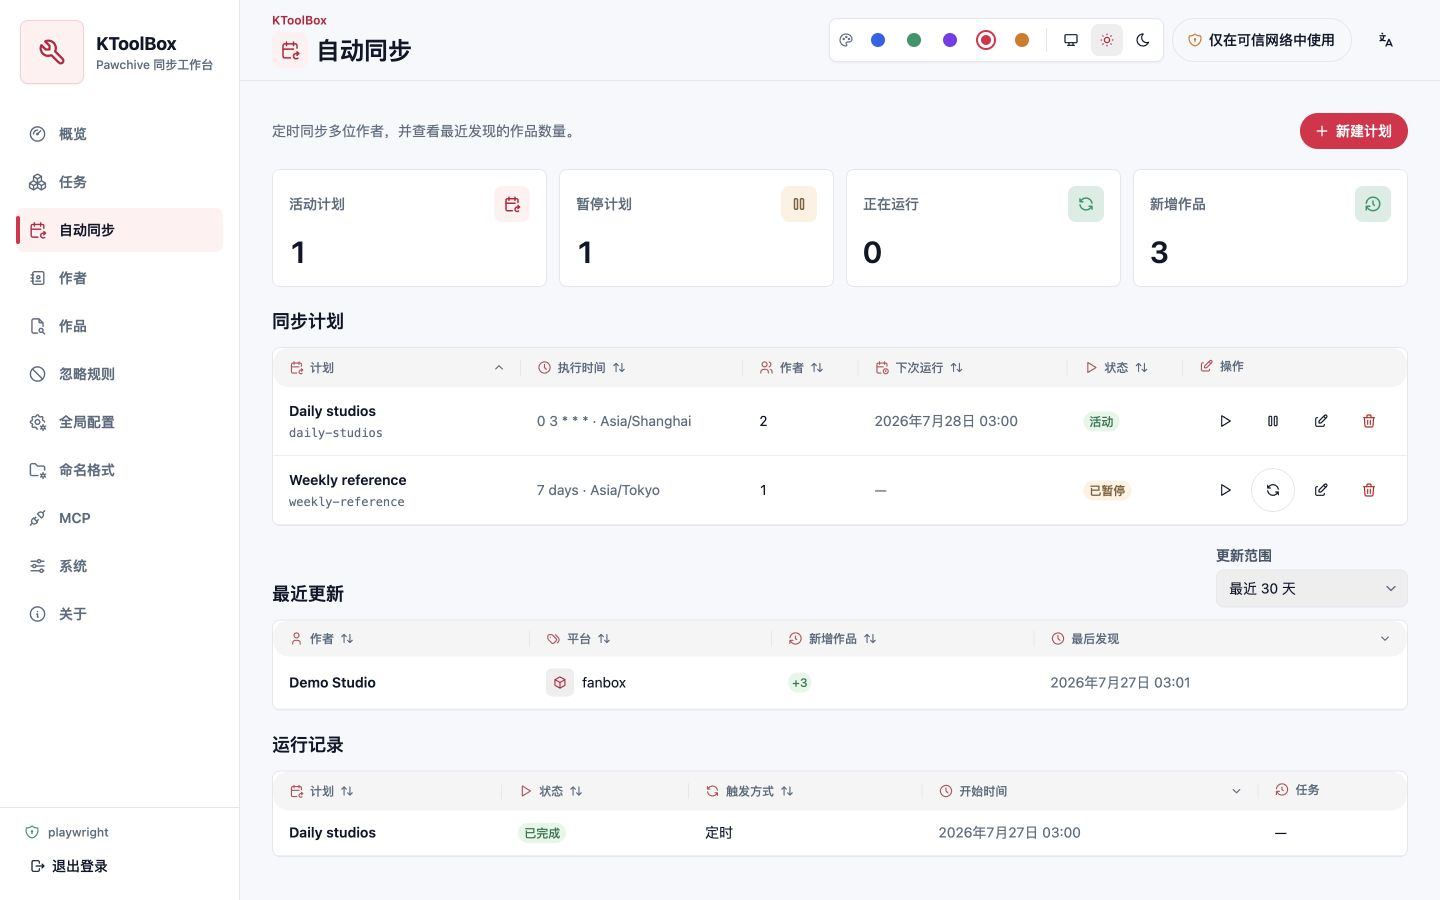
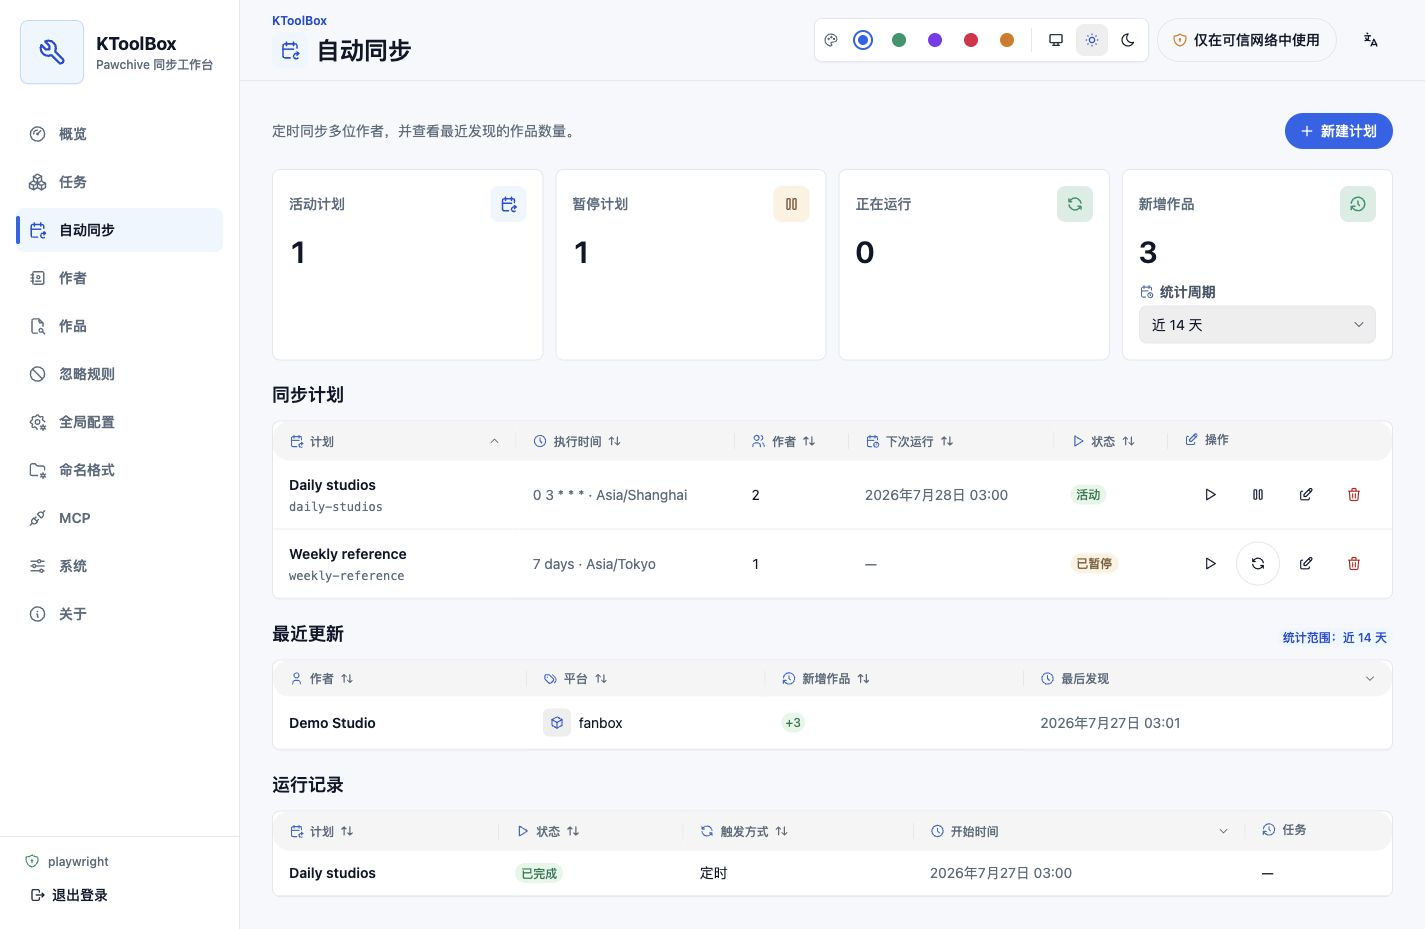
docs: explain automatic update periods

diff --git a/docs/ru/automatic-sync.md b/docs/ru/automatic-sync.md
@@ -26,6 +26,7 @@
 - Первый запуск без начальной даты создаёт базу и не считает всю историю новой.
 - Ручной запуск использует те же контрольные точки.
 - В обновлениях показываются только авторы и количество; заголовки и медиа не загружаются.
+- Карточка **Новые работы** задаёт период и для общего числа, и для списка: **Сегодня** считается от местной полуночи, а последние 24 часа, 7, 14 и 30 дней являются скользящими окнами.
 
 ## Пауза, конфликты и остановка
 

diff --git a/docs/fr/automatic-sync.md b/docs/fr/automatic-sync.md
@@ -26,6 +26,7 @@ L'heure de fin est figée au démarrage. KToolBox privilégie l'horodatage `adde
 - Une première exécution sans date établit une base sans compter tout l'historique comme nouveau.
 - Une exécution manuelle utilise les mêmes points de contrôle.
 - Les mises à jour n'affichent que les créateurs et les nombres ; aucun titre ni média n'est chargé.
+- La carte **Nouvelles œuvres** contrôle la période du total et de la liste : **Aujourd’hui** commence à minuit local, tandis que les dernières 24 heures, 7, 14 et 30 jours sont des fenêtres glissantes.
 
 ## Pause, conflits et arrêts
 

diff --git a/docs/ko/automatic-sync.md b/docs/ko/automatic-sync.md
@@ -26,6 +26,7 @@
 - 첫 실행에서 **시작일 제한 없음**을 선택하면 기준만 만들고 전체 기록을 새 작품으로 세지 않습니다.
 - 수동 실행도 같은 체크포인트를 사용합니다.
 - 최근 업데이트는 이름과 수량만 표시하며 제목이나 미디어를 불러오지 않습니다.
+- **새 작품** 카드에서 합계와 아래 목록의 집계 기간을 함께 선택합니다. **오늘**은 현지 자정부터 계산하고, 최근 24시간, 7일, 14일, 30일은 이동 시간 범위입니다.
 
 ## 일시 중지, 충돌 및 중단 시간
 

diff --git a/docs/en/automatic-sync.md b/docs/en/automatic-sync.md
@@ -26,6 +26,7 @@ Each run fixes its end time before synchronization starts. KToolBox prefers Pawc
 - A first run with **No start date** establishes a baseline and does not count all history as new.
 - **Run now** uses and advances the same checkpoints as scheduled runs.
 - Recent updates show creator names and new-work counts only; titles and media are not loaded.
+- The **New works** card controls the period for both its total and the list below: **Today** uses local midnight, while **Last 24 hours**, 7, 14, and 30 days are rolling windows.
 
 ## Pause, conflicts, and missed runs
 

diff --git a/docs/zh/automatic-sync.md b/docs/zh/automatic-sync.md
@@ -26,6 +26,7 @@ Cron 图形设置支持每小时、每天、每周和每月等常见计划；高
 - 首次选择“**不限起始日期**”时只建立基线，不把全部历史作品计为新增。
 - “**立即执行**”与定时运行使用并推进同一检查点。
 - 最近更新只显示作者和新增作品数量，不加载作品标题或媒体。
+- **新增作品**卡片同时控制统计总数和下方列表的周期：**当天**从本地零点开始计算，**近 1 天**、7 天、14 天和 30 天均为滚动时间窗口。
 
 ## 暂停、冲突与停机
 

diff --git a/docs/ja/automatic-sync.md b/docs/ja/automatic-sync.md
@@ -26,6 +26,7 @@
 - **開始日を制限しない**初回実行は基準だけを作り、全履歴を新規として数えません。
 - 手動実行も同じチェックポイントを使います。
 - 最近の更新は名前と件数だけを表示し、タイトルやメディアを読み込みません。
+- **新規作品**カードで合計と下の一覧の集計期間を選べます。**今日**はローカルの午前0時から、過去24時間、7日、14日、30日は移動時間枠で集計します。
 
 ## 一時停止、競合、停止期間
 

diff --git a/docs/zh-Hant/automatic-sync.md b/docs/zh-Hant/automatic-sync.md
@@ -26,6 +26,7 @@
 - 首次選擇「**不限起始日期**」只建立基準，不把全部歷史作品計為新增。
 - 「**立即執行**」與排程執行使用同一檢查點。
 - 最近更新只顯示作者與新增作品數量，不載入標題或媒體。
+- **新增作品**卡片同時控制統計總數與下方清單的週期：**當天**從本地零點開始計算，**近 1 天**、7 天、14 天和 30 天均為滾動時間視窗。
 
 ## 暫停、衝突與停機
 
